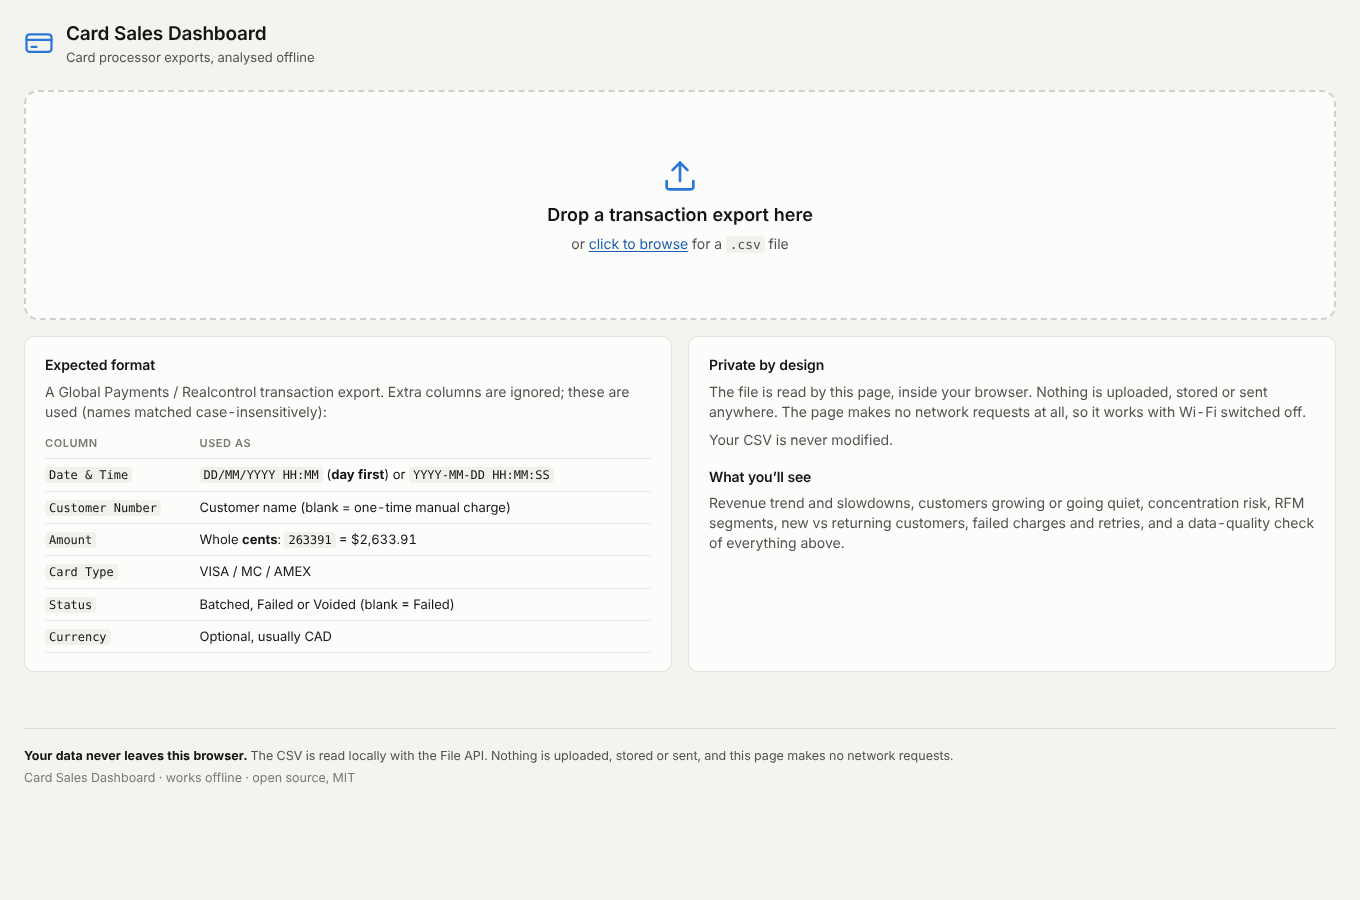
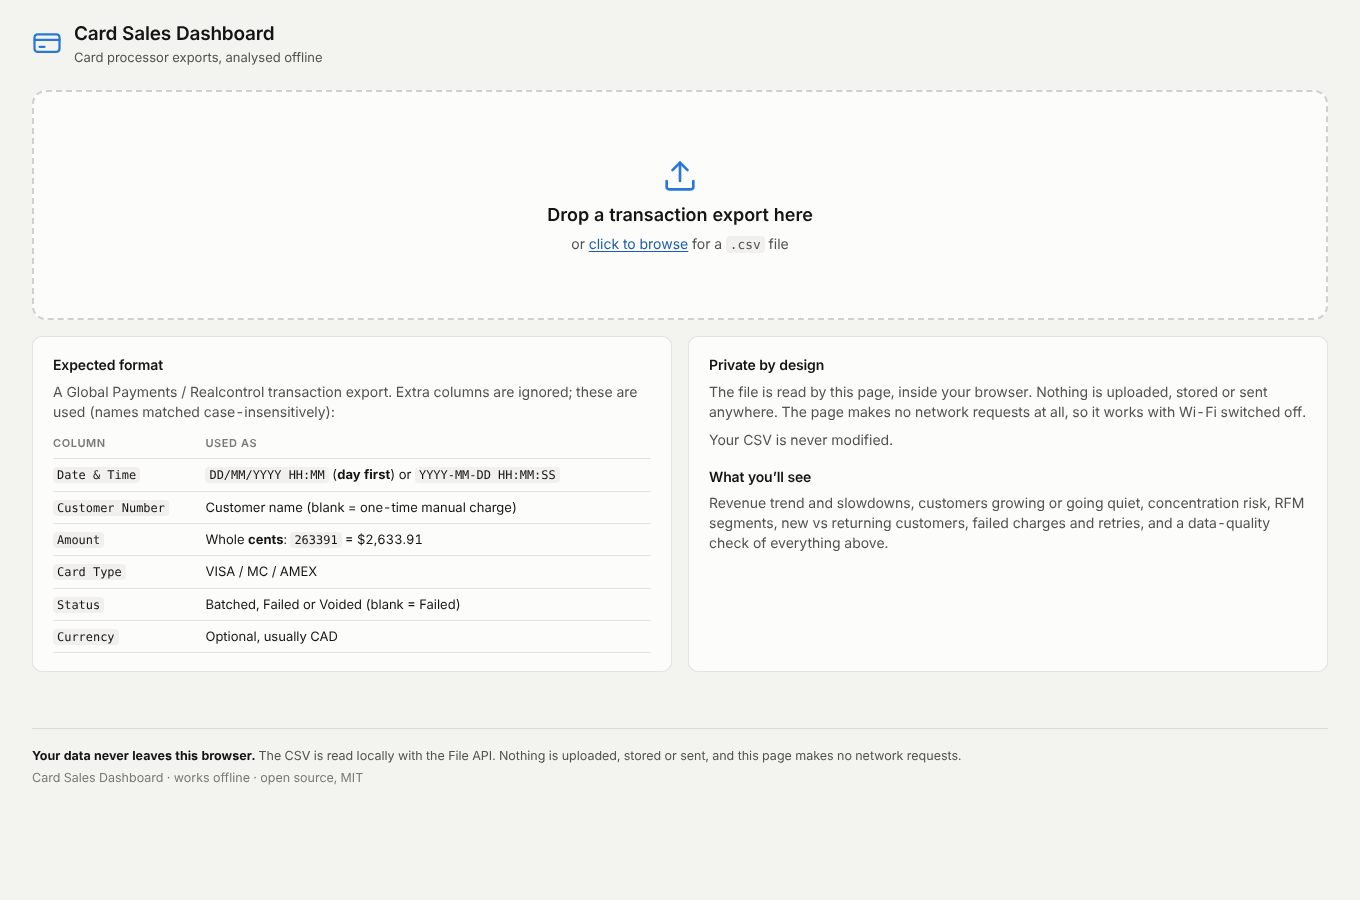
Optimise layout for desktop browsers only
Mobile support is no longer needed, so the narrow-screen handling is
removed and the layout is tuned for desktop widths instead.

- Drop the 1100/900/700/520px breakpoints and the narrow-canvas branches
  in the bar charts; the two-column grid now holds at every width.
- Give the app a 1,240px minimum width (narrower windows scroll
  sideways) and a 1,760px maximum so large monitors get more room.
- On 1,700px+ screens, show all eight KPI tiles in one row (subtitles
  wrap instead of truncating) and give the charts more height.
- Fixed 1280px viewport meta so any small device renders the desktop
  layout.
- Customer trend shows the top and bottom 15 and its card stretches to
  match the tables beside it.
- Print layout is unchanged.

Claude-Session: https://claude.ai/code/session_01WKRqu1uxcB8Y2pq1MYnXuj

diff --git a/dashboard.html b/dashboard.html
@@ -2,7 +2,7 @@
 <html lang="en">
 <head>
 <meta charset="utf-8">
-<meta name="viewport" content="width=device-width, initial-scale=1">
+<meta name="viewport" content="width=1280">
 <meta http-equiv="Content-Security-Policy" content="default-src 'none'; script-src 'unsafe-inline'; style-src 'unsafe-inline'; img-src data: blob:; font-src 'none'; connect-src 'none'; media-src 'none'; object-src 'none'; frame-src 'none'; worker-src 'none'; base-uri 'none'; form-action 'none'">
 <title>Card Sales Dashboard</title>
 <meta name="description" content="Offline credit card sales dashboard. Drop a transaction export CSV to analyse it locally in your browser.">
@@ -111,7 +111,9 @@ code { font-family: var(--mono); font-size: 0.92em; background: var(--surface-2)
 button, input, select { font: inherit; color: inherit; }
 :focus-visible { outline: 2px solid var(--accent); outline-offset: 2px; }
 
-#app { max-width: 1440px; margin: 0 auto; padding: 0 24px 24px; }
+/* Desktop only: the layout never collapses. Below ~1240px wide the page
+ * scrolls sideways instead; wide monitors get more room for the charts. */
+#app { min-width: 1240px; max-width: 1760px; margin: 0 auto; padding: 0 32px 32px; }
 
 /* --- Top bar ----------------------------------------------------------------- */
 .topbar {
@@ -217,6 +219,7 @@ button, input, select { font: inherit; color: inherit; }
 .section-title::before { content: ""; width: 4px; height: 18px; border-radius: 2px; background: var(--accent); }
 .grid { display: grid; grid-template-columns: repeat(2, minmax(0, 1fr)); gap: var(--gap); align-items: start; }
 .span-2 { grid-column: 1 / -1; }
+.grid > .card.fill { align-self: stretch; }
 .stack { display: grid; gap: var(--gap); min-width: 0; }
 .card { background: var(--surface); border: 1px solid var(--border); border-radius: var(--radius); padding: 14px 16px 12px; min-width: 0; }
 .card-head { display: flex; justify-content: space-between; align-items: flex-start; gap: 12px; margin-bottom: 10px; flex-wrap: wrap; }
@@ -278,7 +281,6 @@ table.data tbody tr:hover { background: var(--surface-2); }
 
 .stat-grid { display: grid; grid-template-columns: repeat(2, minmax(0, 1fr)); gap: 10px 16px; }
 .stat-grid.wide { grid-template-columns: repeat(3, minmax(0, 1fr)); }
-@media (max-width: 700px) { .stat-grid.wide { grid-template-columns: repeat(2, minmax(0, 1fr)); } }
 .stat .k { font-size: 12px; color: var(--text-2); }
 .stat .v { font-size: 20px; font-weight: 650; }
 .stat .s { font-size: 12px; color: var(--muted); }
@@ -306,20 +308,16 @@ table.data tbody tr:hover { background: var(--surface-2); }
 .footer::before { content: "🔒"; display: none; }
 .footer-meta { color: var(--muted); }
 
-/* --- Responsive ---------------------------------------------------------------------------------- */
-@media (max-width: 1100px) { .kpis { grid-template-columns: repeat(2, minmax(0, 1fr)); } }
-@media (max-width: 900px) {
-  #app { padding: 0 16px 16px; }
-  .grid, .intro-grid { grid-template-columns: minmax(0, 1fr); }
-  .span-2 { grid-column: auto; }
-  .chart-box.tall { height: 340px; }
-  .donut-row { grid-template-columns: minmax(0, 1fr); }
-}
-@media (max-width: 520px) {
-  .kpis { grid-template-columns: minmax(0, 1fr); }
-  .filters { position: static; }
-  .field { flex: 1 1 140px; }
-  .file-meta dd { max-width: 200px; }
+/* --- Wide desktop monitors ------------------------------------------------------------------------ */
+@media (min-width: 1700px) {
+  body:not(.printing) .kpis { grid-template-columns: repeat(8, minmax(0, 1fr)); }
+  body:not(.printing) .kpi { padding: 12px 14px 10px; }
+  body:not(.printing) .kpi-value, body:not(.printing) .kpi.hero .kpi-value { font-size: 24px; }
+  body:not(.printing) .kpi-sub { white-space: normal; min-height: 2.9em; line-height: 1.45; }
+  body:not(.printing) .chart-box { height: 320px; }
+  body:not(.printing) .chart-box.tall { height: 460px; }
+  body:not(.printing) .chart-box.short { height: 240px; }
+  body:not(.printing) .chart-box.donut { height: 250px; }
 }
 
 /* --- Print ----------------------------------------------------------------------------------------
@@ -329,7 +327,7 @@ table.data tbody tr:hover { background: var(--surface-2); }
   @page { size: A4 portrait; margin: 12mm; }
   :root { --bg: #ffffff; --surface: #ffffff; }
   body { background: #fff; font-size: 11px; }
-  #app { max-width: none; padding: 0; }
+  #app { min-width: 0; max-width: none; padding: 0; }
   .topbar { padding-top: 0; }
   .btn, .filters, .intro, .drop-overlay, #slopesToggle, #cadenceToggle, .chips, .inline-field input { display: none !important; }
   .print-summary { display: block; color: var(--text-2); margin: 0 0 10px; font-size: 11px; }
@@ -357,7 +355,7 @@ table.data tbody tr:hover { background: var(--surface-2); }
   .dq .table-wrap tbody tr:nth-child(n+16) { display: table-row; }
   .footer { break-inside: avoid; }
 }
-body.printing #app { max-width: 700px; }
+body.printing #app { min-width: 0; max-width: 700px; padding: 0 24px; }
 @media screen { .print-img { display: none; } }
 body.printing .grid { grid-template-columns: minmax(0, 1fr); }
 body.printing .span-2 { grid-column: auto; }
@@ -501,7 +499,7 @@ body.printing .span-2 { grid-column: auto; }
     <section class="section" aria-labelledby="h-mom">
       <h2 id="h-mom" class="section-title">Momentum &amp; slowdown</h2>
       <div class="grid">
-        <article class="card" data-chart="slopes">
+        <article class="card fill" data-chart="slopes">
           <header class="card-head">
             <div><h3>Customer trend</h3><p class="card-sub" id="s-slopes"></p></div>
             <button type="button" class="btn small" id="slopesToggle" aria-pressed="false">Show all</button>
@@ -1799,7 +1797,6 @@ body.printing .span-2 { grid-column: auto; }
       return s >= 0 ? mix(t.surface, t.goodDeep, k) : mix(t.surface, t.badDeep, k);
     };
     boxEl.style.height = Math.max(160, list.length * 21 + 70) + 'px';
-    const narrow = boxEl.clientWidth < 480;
     const per = '/' + (unitNoun === 'month' ? 'mo' : unitNoun === 'week' ? 'wk' : unitNoun === 'day' ? 'day' : 'qtr');
     return make('slopes', {
       type: 'bar',
@@ -1811,15 +1808,15 @@ body.printing .span-2 { grid-column: auto; }
         indexAxis: 'y',
         layout: { padding: { left: 4, right: 4 } },
         scales: {
-          x: { grace: narrow ? '75%' : '32%', grid: gridOpts(t, true), border: { display: false }, ticks: ticks(t, { callback: (v) => Fmt.signedMoney(v), maxTicksLimit: narrow ? 4 : 7, maxRotation: 0 }), title: axisTitle('Revenue change per ' + unitNoun + ' (linear trend)', t), position: 'top' },
-          y: { grid: { display: false }, border: { display: false }, ticks: ticks(t, { autoSkip: false, callback: function (v) { return nameTick(narrow ? 15 : 26)(this.getLabelForValue(v)); }, font: { size: 11.5 } }) },
+          x: { grace: '32%', grid: gridOpts(t, true), border: { display: false }, ticks: ticks(t, { callback: (v) => Fmt.signedMoney(v), maxTicksLimit: 7, maxRotation: 0 }), title: axisTitle('Revenue change per ' + unitNoun + ' (linear trend)', t), position: 'top' },
+          y: { grid: { display: false }, border: { display: false }, ticks: ticks(t, { autoSkip: false, callback: function (v) { return nameTick(26)(this.getLabelForValue(v)); }, font: { size: 11.5 } }) },
         },
         plugins: {
           legend: { display: false },
           tooltip: { callbacks: {
             label: (ctx) => { const x = list[ctx.dataIndex]; return [' Trend: ' + Fmt.signedMoney(x.slope) + per, ' Active in ' + x.active + ' of ' + x.buckets + ' ' + unitNoun + 's', ' Revenue: ' + Fmt.money(x.gross / 100)]; },
           } },
-          valueLabels: { color: t.text2, weight: '500', format: (v) => (v >= 0 ? '▲ +' : '▼ ' + MINUS) + Fmt.compact(Math.abs(v)) + (narrow ? '' : per) },
+          valueLabels: { color: t.text2, weight: '500', format: (v) => (v >= 0 ? '▲ +' : '▼ ' + MINUS) + Fmt.compact(Math.abs(v)) + per },
         },
       },
     }, 'Diverging bar chart of each customer’s revenue trend');
@@ -1830,7 +1827,6 @@ body.printing .span-2 { grid-column: auto; }
   // ---------------------------------------------------------------------------
   function hbar(id, items, t, o) {
     o.box.style.height = Math.max(150, items.length * (o.rowH || 22) + 60) + 'px';
-    const narrow = o.box.clientWidth < 480;
     return make(id, {
       type: 'bar',
       data: {
@@ -1844,8 +1840,8 @@ body.printing .span-2 { grid-column: auto; }
       options: {
         indexAxis: 'y',
         scales: {
-          x: { beginAtZero: true, grace: narrow ? '55%' : o.grace || '28%', max: o.max, grid: gridOpts(t), border: { display: false }, ticks: ticks(t, { callback: o.tick, maxTicksLimit: narrow ? 4 : 6, maxRotation: 0 }), title: axisTitle(o.axis, t) },
-          y: { grid: { display: false }, border: { color: t.axis }, ticks: ticks(t, { autoSkip: false, callback: function (v) { return nameTick(narrow ? 16 : 28)(this.getLabelForValue(v)); }, font: { size: 11.5 } }) },
+          x: { beginAtZero: true, grace: o.grace || '28%', max: o.max, grid: gridOpts(t), border: { display: false }, ticks: ticks(t, { callback: o.tick, maxTicksLimit: 6, maxRotation: 0 }), title: axisTitle(o.axis, t) },
+          y: { grid: { display: false }, border: { color: t.axis }, ticks: ticks(t, { autoSkip: false, callback: function (v) { return nameTick(28)(this.getLabelForValue(v)); }, font: { size: 11.5 } }) },
         },
         plugins: {
           legend: { display: false },
@@ -1892,7 +1888,6 @@ body.printing .span-2 { grid-column: auto; }
     const cstep = maxGap * 3 <= 42 ? 7 : maxGap * 3 <= 98 ? 14 : 28;
     const cap = Math.max(28, Math.ceil((maxGap * 3) / cstep) * cstep);
     const off = (x) => x.since > cap;
-    const narrow = boxEl.clientWidth < 480;
     return make('cadence', {
       type: 'bar',
       data: {
@@ -1908,8 +1903,8 @@ body.printing .span-2 { grid-column: auto; }
         indexAxis: 'y',
         interaction: { mode: 'index', intersect: false, axis: 'y' },
         scales: {
-          x: { beginAtZero: true, max: cap, grid: gridOpts(t), border: { display: false }, ticks: ticks(t, { stepSize: narrow ? cstep * 2 : cstep, maxRotation: 0, callback: (v) => v + (v === cap ? '+' : '') }), title: axisTitle('Days', t), position: 'top' },
-          y: { grid: { display: false }, border: { color: t.axis }, ticks: ticks(t, { autoSkip: false, callback: function (v) { return nameTick(narrow ? 16 : 26)(this.getLabelForValue(v)); }, font: { size: 11.5 } }) },
+          x: { beginAtZero: true, max: cap, grid: gridOpts(t), border: { display: false }, ticks: ticks(t, { stepSize: cstep, maxRotation: 0, callback: (v) => v + (v === cap ? '+' : '') }), title: axisTitle('Days', t), position: 'top' },
+          y: { grid: { display: false }, border: { color: t.axis }, ticks: ticks(t, { autoSkip: false, callback: function (v) { return nameTick(26)(this.getLabelForValue(v)); }, font: { size: 11.5 } }) },
         },
         plugins: {
           legend: { labels: { usePointStyle: true } },
@@ -2357,7 +2352,7 @@ body.printing .span-2 { grid-column: auto; }
       $('cap-slopes').textContent = '';
     } else {
       const all = mo.slopes;
-      const K = 12;
+      const K = 15;
       let list = all;
       toggle.hidden = all.length <= K * 2;
       if (!state.slopesAll && all.length > K * 2) list = all.slice(0, K).concat(all.slice(-K));

diff --git a/src/charts.js b/src/charts.js
@@ -349,7 +349,6 @@
       return s >= 0 ? mix(t.surface, t.goodDeep, k) : mix(t.surface, t.badDeep, k);
     };
     boxEl.style.height = Math.max(160, list.length * 21 + 70) + 'px';
-    const narrow = boxEl.clientWidth < 480;
     const per = '/' + (unitNoun === 'month' ? 'mo' : unitNoun === 'week' ? 'wk' : unitNoun === 'day' ? 'day' : 'qtr');
     return make('slopes', {
       type: 'bar',
@@ -361,15 +360,15 @@
         indexAxis: 'y',
         layout: { padding: { left: 4, right: 4 } },
         scales: {
-          x: { grace: narrow ? '75%' : '32%', grid: gridOpts(t, true), border: { display: false }, ticks: ticks(t, { callback: (v) => Fmt.signedMoney(v), maxTicksLimit: narrow ? 4 : 7, maxRotation: 0 }), title: axisTitle('Revenue change per ' + unitNoun + ' (linear trend)', t), position: 'top' },
-          y: { grid: { display: false }, border: { display: false }, ticks: ticks(t, { autoSkip: false, callback: function (v) { return nameTick(narrow ? 15 : 26)(this.getLabelForValue(v)); }, font: { size: 11.5 } }) },
+          x: { grace: '32%', grid: gridOpts(t, true), border: { display: false }, ticks: ticks(t, { callback: (v) => Fmt.signedMoney(v), maxTicksLimit: 7, maxRotation: 0 }), title: axisTitle('Revenue change per ' + unitNoun + ' (linear trend)', t), position: 'top' },
+          y: { grid: { display: false }, border: { display: false }, ticks: ticks(t, { autoSkip: false, callback: function (v) { return nameTick(26)(this.getLabelForValue(v)); }, font: { size: 11.5 } }) },
         },
         plugins: {
           legend: { display: false },
           tooltip: { callbacks: {
             label: (ctx) => { const x = list[ctx.dataIndex]; return [' Trend: ' + Fmt.signedMoney(x.slope) + per, ' Active in ' + x.active + ' of ' + x.buckets + ' ' + unitNoun + 's', ' Revenue: ' + Fmt.money(x.gross / 100)]; },
           } },
-          valueLabels: { color: t.text2, weight: '500', format: (v) => (v >= 0 ? '▲ +' : '▼ ' + MINUS) + Fmt.compact(Math.abs(v)) + (narrow ? '' : per) },
+          valueLabels: { color: t.text2, weight: '500', format: (v) => (v >= 0 ? '▲ +' : '▼ ' + MINUS) + Fmt.compact(Math.abs(v)) + per },
         },
       },
     }, 'Diverging bar chart of each customer’s revenue trend');
@@ -380,7 +379,6 @@
   // ---------------------------------------------------------------------------
   function hbar(id, items, t, o) {
     o.box.style.height = Math.max(150, items.length * (o.rowH || 22) + 60) + 'px';
-    const narrow = o.box.clientWidth < 480;
     return make(id, {
       type: 'bar',
       data: {
@@ -394,8 +392,8 @@
       options: {
         indexAxis: 'y',
         scales: {
-          x: { beginAtZero: true, grace: narrow ? '55%' : o.grace || '28%', max: o.max, grid: gridOpts(t), border: { display: false }, ticks: ticks(t, { callback: o.tick, maxTicksLimit: narrow ? 4 : 6, maxRotation: 0 }), title: axisTitle(o.axis, t) },
-          y: { grid: { display: false }, border: { color: t.axis }, ticks: ticks(t, { autoSkip: false, callback: function (v) { return nameTick(narrow ? 16 : 28)(this.getLabelForValue(v)); }, font: { size: 11.5 } }) },
+          x: { beginAtZero: true, grace: o.grace || '28%', max: o.max, grid: gridOpts(t), border: { display: false }, ticks: ticks(t, { callback: o.tick, maxTicksLimit: 6, maxRotation: 0 }), title: axisTitle(o.axis, t) },
+          y: { grid: { display: false }, border: { color: t.axis }, ticks: ticks(t, { autoSkip: false, callback: function (v) { return nameTick(28)(this.getLabelForValue(v)); }, font: { size: 11.5 } }) },
         },
         plugins: {
           legend: { display: false },
@@ -442,7 +440,6 @@
     const cstep = maxGap * 3 <= 42 ? 7 : maxGap * 3 <= 98 ? 14 : 28;
     const cap = Math.max(28, Math.ceil((maxGap * 3) / cstep) * cstep);
     const off = (x) => x.since > cap;
-    const narrow = boxEl.clientWidth < 480;
     return make('cadence', {
       type: 'bar',
       data: {
@@ -458,8 +455,8 @@
         indexAxis: 'y',
         interaction: { mode: 'index', intersect: false, axis: 'y' },
         scales: {
-          x: { beginAtZero: true, max: cap, grid: gridOpts(t), border: { display: false }, ticks: ticks(t, { stepSize: narrow ? cstep * 2 : cstep, maxRotation: 0, callback: (v) => v + (v === cap ? '+' : '') }), title: axisTitle('Days', t), position: 'top' },
-          y: { grid: { display: false }, border: { color: t.axis }, ticks: ticks(t, { autoSkip: false, callback: function (v) { return nameTick(narrow ? 16 : 26)(this.getLabelForValue(v)); }, font: { size: 11.5 } }) },
+          x: { beginAtZero: true, max: cap, grid: gridOpts(t), border: { display: false }, ticks: ticks(t, { stepSize: cstep, maxRotation: 0, callback: (v) => v + (v === cap ? '+' : '') }), title: axisTitle('Days', t), position: 'top' },
+          y: { grid: { display: false }, border: { color: t.axis }, ticks: ticks(t, { autoSkip: false, callback: function (v) { return nameTick(26)(this.getLabelForValue(v)); }, font: { size: 11.5 } }) },
         },
         plugins: {
           legend: { labels: { usePointStyle: true } },

diff --git a/src/styles.css b/src/styles.css
@@ -102,7 +102,9 @@ code { font-family: var(--mono); font-size: 0.92em; background: var(--surface-2)
 button, input, select { font: inherit; color: inherit; }
 :focus-visible { outline: 2px solid var(--accent); outline-offset: 2px; }
 
-#app { max-width: 1440px; margin: 0 auto; padding: 0 24px 24px; }
+/* Desktop only: the layout never collapses. Below ~1240px wide the page
+ * scrolls sideways instead; wide monitors get more room for the charts. */
+#app { min-width: 1240px; max-width: 1760px; margin: 0 auto; padding: 0 32px 32px; }
 
 /* --- Top bar ----------------------------------------------------------------- */
 .topbar {
@@ -208,6 +210,7 @@ button, input, select { font: inherit; color: inherit; }
 .section-title::before { content: ""; width: 4px; height: 18px; border-radius: 2px; background: var(--accent); }
 .grid { display: grid; grid-template-columns: repeat(2, minmax(0, 1fr)); gap: var(--gap); align-items: start; }
 .span-2 { grid-column: 1 / -1; }
+.grid > .card.fill { align-self: stretch; }
 .stack { display: grid; gap: var(--gap); min-width: 0; }
 .card { background: var(--surface); border: 1px solid var(--border); border-radius: var(--radius); padding: 14px 16px 12px; min-width: 0; }
 .card-head { display: flex; justify-content: space-between; align-items: flex-start; gap: 12px; margin-bottom: 10px; flex-wrap: wrap; }
@@ -269,7 +272,6 @@ table.data tbody tr:hover { background: var(--surface-2); }
 
 .stat-grid { display: grid; grid-template-columns: repeat(2, minmax(0, 1fr)); gap: 10px 16px; }
 .stat-grid.wide { grid-template-columns: repeat(3, minmax(0, 1fr)); }
-@media (max-width: 700px) { .stat-grid.wide { grid-template-columns: repeat(2, minmax(0, 1fr)); } }
 .stat .k { font-size: 12px; color: var(--text-2); }
 .stat .v { font-size: 20px; font-weight: 650; }
 .stat .s { font-size: 12px; color: var(--muted); }
@@ -297,20 +299,16 @@ table.data tbody tr:hover { background: var(--surface-2); }
 .footer::before { content: "🔒"; display: none; }
 .footer-meta { color: var(--muted); }
 
-/* --- Responsive ---------------------------------------------------------------------------------- */
-@media (max-width: 1100px) { .kpis { grid-template-columns: repeat(2, minmax(0, 1fr)); } }
-@media (max-width: 900px) {
-  #app { padding: 0 16px 16px; }
-  .grid, .intro-grid { grid-template-columns: minmax(0, 1fr); }
-  .span-2 { grid-column: auto; }
-  .chart-box.tall { height: 340px; }
-  .donut-row { grid-template-columns: minmax(0, 1fr); }
-}
-@media (max-width: 520px) {
-  .kpis { grid-template-columns: minmax(0, 1fr); }
-  .filters { position: static; }
-  .field { flex: 1 1 140px; }
-  .file-meta dd { max-width: 200px; }
+/* --- Wide desktop monitors ------------------------------------------------------------------------ */
+@media (min-width: 1700px) {
+  body:not(.printing) .kpis { grid-template-columns: repeat(8, minmax(0, 1fr)); }
+  body:not(.printing) .kpi { padding: 12px 14px 10px; }
+  body:not(.printing) .kpi-value, body:not(.printing) .kpi.hero .kpi-value { font-size: 24px; }
+  body:not(.printing) .kpi-sub { white-space: normal; min-height: 2.9em; line-height: 1.45; }
+  body:not(.printing) .chart-box { height: 320px; }
+  body:not(.printing) .chart-box.tall { height: 460px; }
+  body:not(.printing) .chart-box.short { height: 240px; }
+  body:not(.printing) .chart-box.donut { height: 250px; }
 }
 
 /* --- Print ----------------------------------------------------------------------------------------
@@ -320,7 +318,7 @@ table.data tbody tr:hover { background: var(--surface-2); }
   @page { size: A4 portrait; margin: 12mm; }
   :root { --bg: #ffffff; --surface: #ffffff; }
   body { background: #fff; font-size: 11px; }
-  #app { max-width: none; padding: 0; }
+  #app { min-width: 0; max-width: none; padding: 0; }
   .topbar { padding-top: 0; }
   .btn, .filters, .intro, .drop-overlay, #slopesToggle, #cadenceToggle, .chips, .inline-field input { display: none !important; }
   .print-summary { display: block; color: var(--text-2); margin: 0 0 10px; font-size: 11px; }
@@ -348,7 +346,7 @@ table.data tbody tr:hover { background: var(--surface-2); }
   .dq .table-wrap tbody tr:nth-child(n+16) { display: table-row; }
   .footer { break-inside: avoid; }
 }
-body.printing #app { max-width: 700px; }
+body.printing #app { min-width: 0; max-width: 700px; padding: 0 24px; }
 @media screen { .print-img { display: none; } }
 body.printing .grid { grid-template-columns: minmax(0, 1fr); }
 body.printing .span-2 { grid-column: auto; }

diff --git a/src/index.html b/src/index.html
@@ -2,7 +2,7 @@
 <html lang="en">
 <head>
 <meta charset="utf-8">
-<meta name="viewport" content="width=device-width, initial-scale=1">
+<meta name="viewport" content="width=1280">
 <!-- build:csp -->
 <title>Card Sales Dashboard</title>
 <meta name="description" content="Offline credit card sales dashboard. Drop a transaction export CSV to analyse it locally in your browser.">
@@ -146,7 +146,7 @@
     <section class="section" aria-labelledby="h-mom">
       <h2 id="h-mom" class="section-title">Momentum &amp; slowdown</h2>
       <div class="grid">
-        <article class="card" data-chart="slopes">
+        <article class="card fill" data-chart="slopes">
           <header class="card-head">
             <div><h3>Customer trend</h3><p class="card-sub" id="s-slopes"></p></div>
             <button type="button" class="btn small" id="slopesToggle" aria-pressed="false">Show all</button>

diff --git a/src/app.js b/src/app.js
@@ -308,7 +308,7 @@
       $('cap-slopes').textContent = '';
     } else {
       const all = mo.slopes;
-      const K = 12;
+      const K = 15;
       let list = all;
       toggle.hidden = all.length <= K * 2;
       if (!state.slopesAll && all.length > K * 2) list = all.slice(0, K).concat(all.slice(-K));

diff --git a/README.md b/README.md
@@ -25,8 +25,8 @@ file that anyone on the team can open.
 ## Using it
 
 1. Download [`dashboard.html`](dashboard.html) (in GitHub, use **Download raw file**).
-2. Open it in Chrome, Edge, Firefox or Safari. It works straight from your
-   downloads folder (`file://`) with Wi-Fi switched off.
+2. Open it in a desktop browser (Chrome, Edge, Firefox or Safari). It works
+   straight from your downloads folder (`file://`) with Wi-Fi switched off.
 3. Drag a transaction export onto the page, or click to browse.
 4. Use the filter bar to narrow the date range, change the grouping
    (day / week / month / quarter), or show successful charges only.
@@ -165,6 +165,13 @@ mode follow the operating system.
 
 The brief left these open, or real data didn't match an assumption. Each is noted
 here so it isn't hidden in the code.
+
+**Layout**
+- **Desktop only.** The brief asked for a grid that collapses to one column under
+  ~900px; after the first version this was changed to desktop browsers only. The
+  layout keeps two columns at every width and has a 1,240px minimum (narrower
+  windows scroll sideways). On wide monitors (1,700px+) the eight KPI tiles sit in
+  one row and the charts get taller.
 
 **Data and cleaning**
 - **Two date formats.** The brief specified `DD/MM/YYYY` (day first). Newer exports
